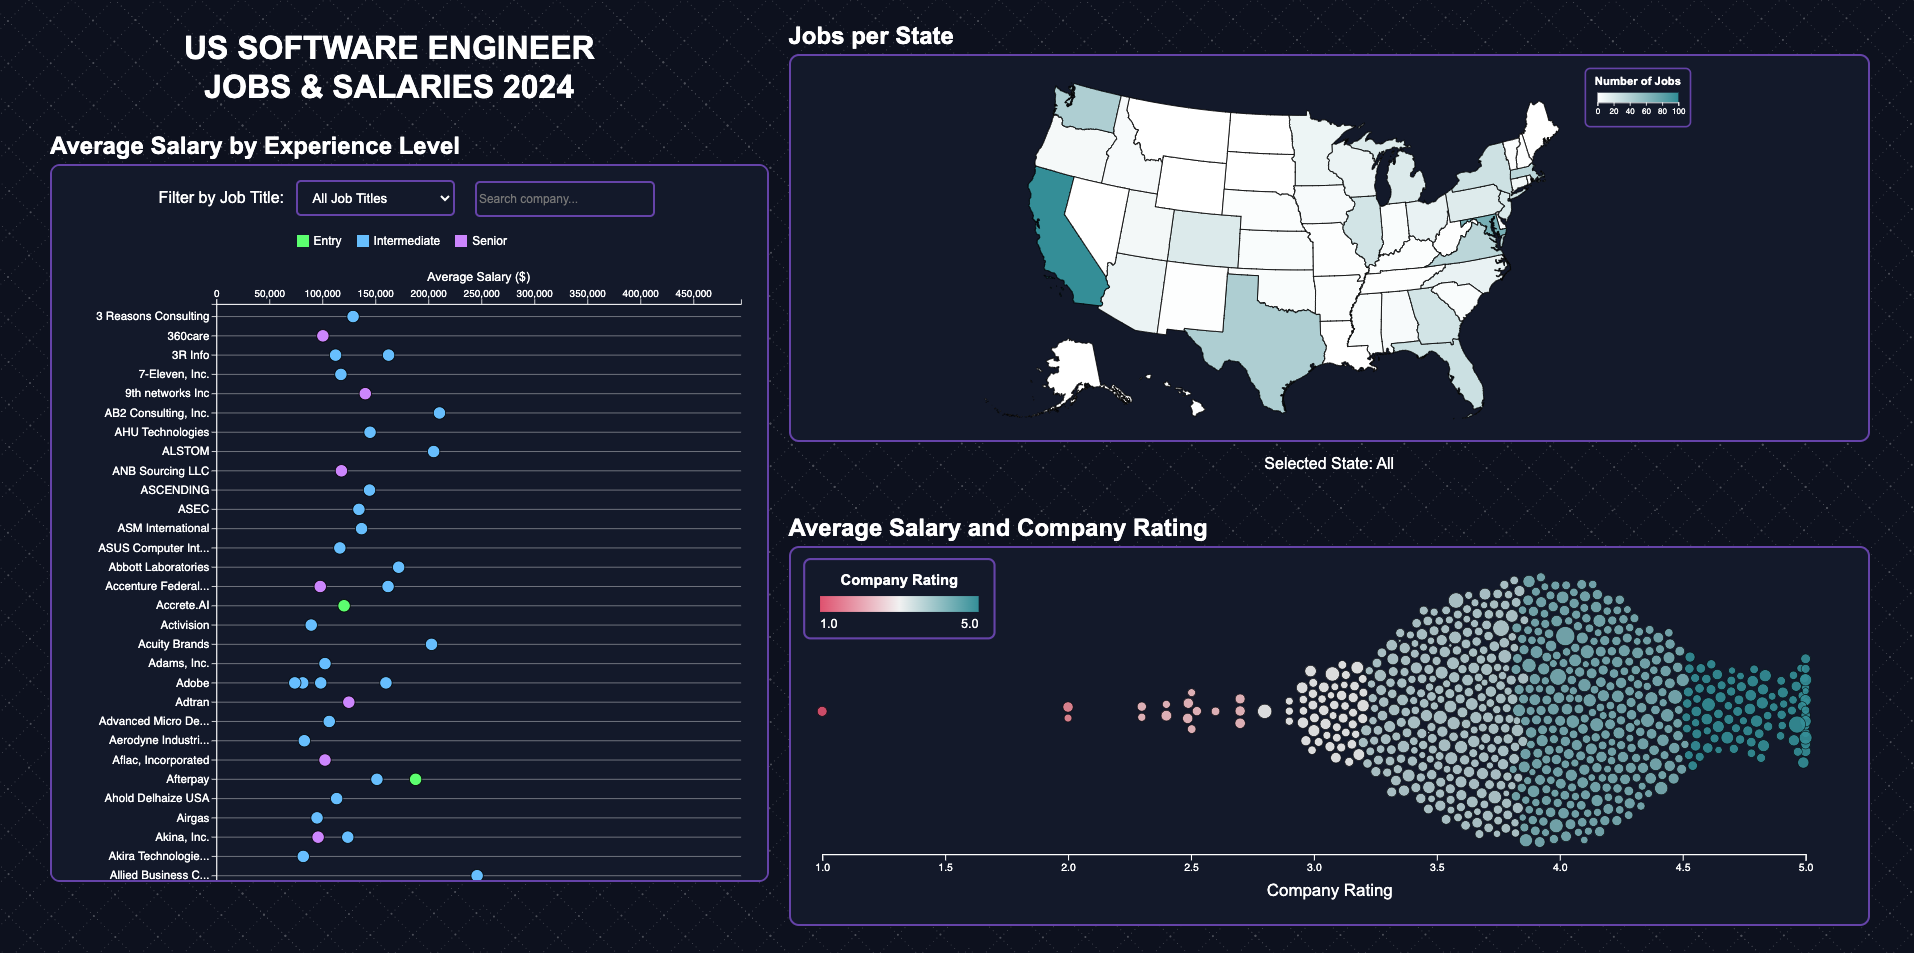
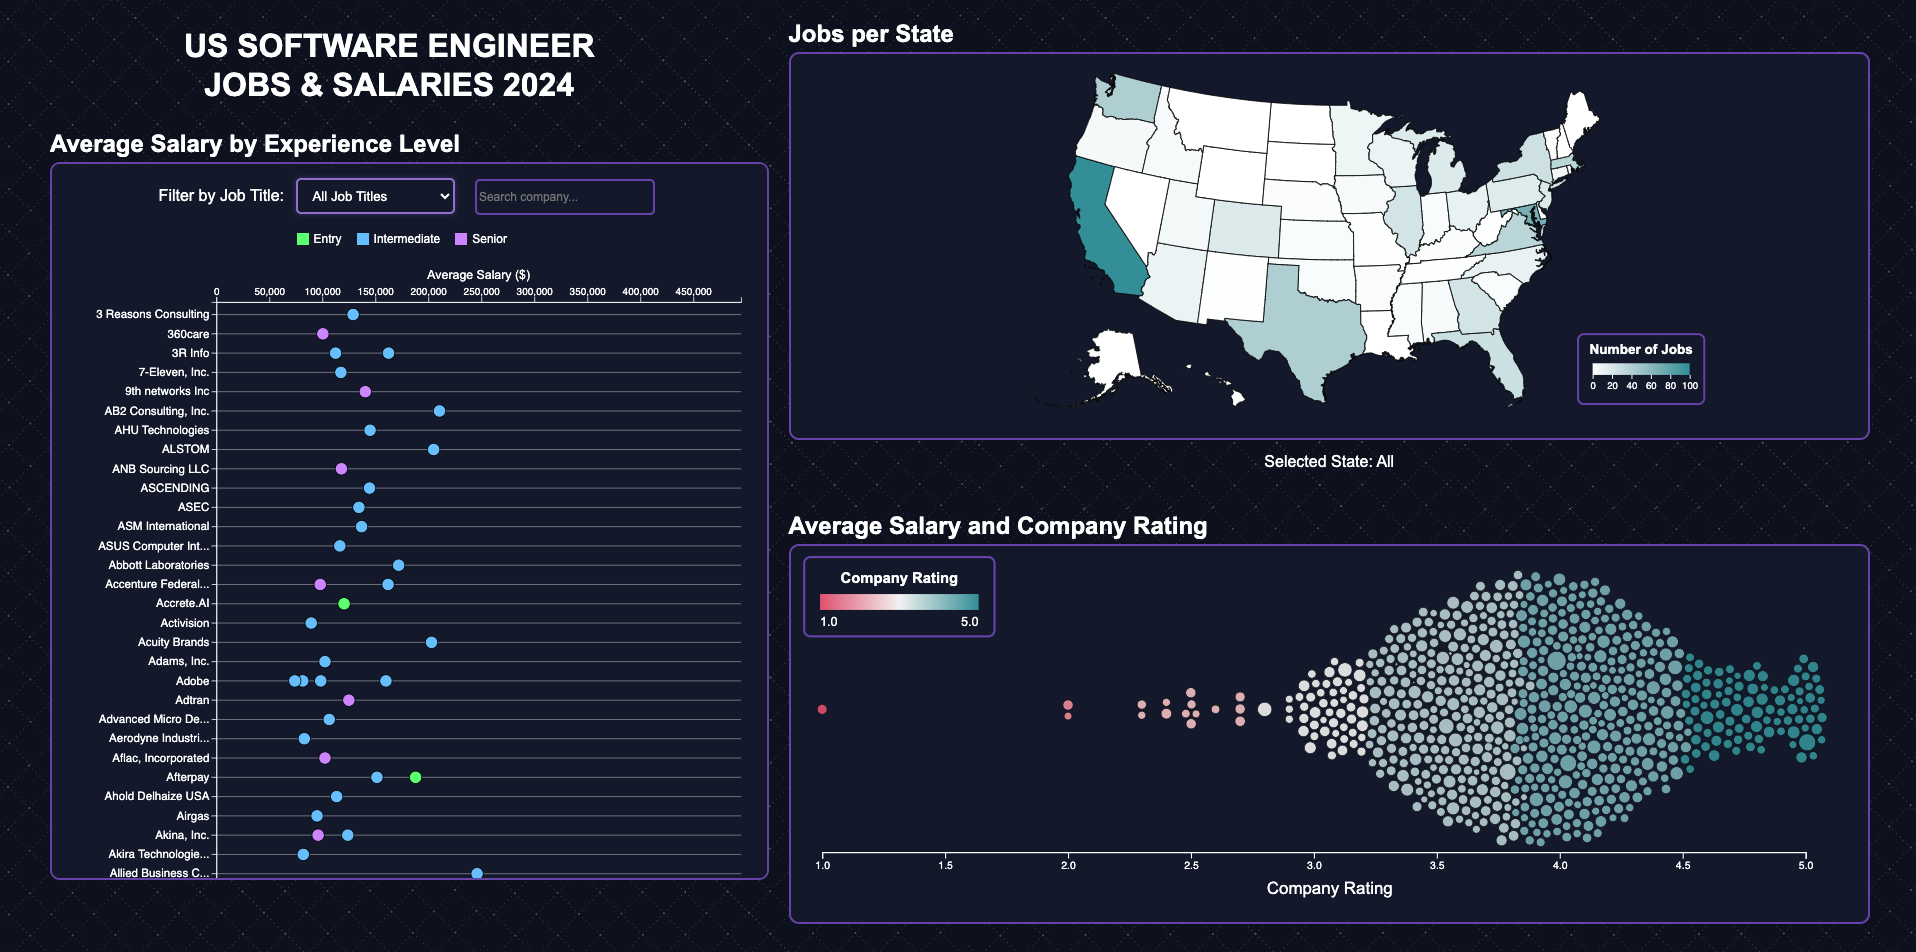
changed thumbnail

diff --git a/js/map.js b/js/map.js
@@ -207,8 +207,8 @@ class GeoMap {
     createLegend() {
         let vis = this;
 
-        const legendX = vis.width - vis.config.legendRight - vis.config.legendRectWidth - 9;
-        const legendY = vis.config.legendTop + 20;
+        const legendX = vis.width - vis.config.legendRight - vis.config.legendRectWidth - 15;
+        const legendY = vis.config.legendTop + 350;
 
         const legendGroup = vis.svg.append("g")
             .attr("class", "legend-group")
